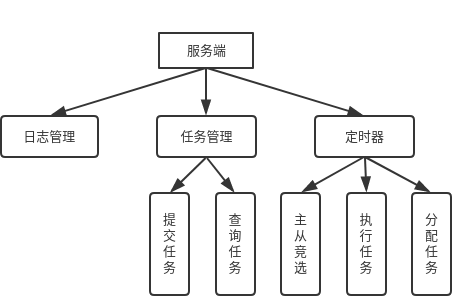
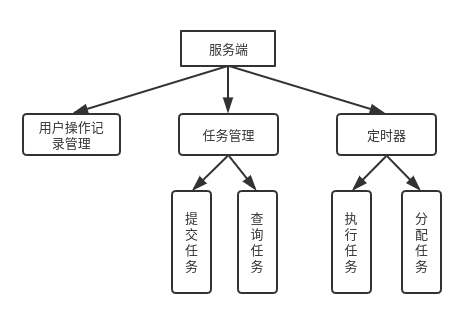
add services.json

Changed region(s): [[0.0, 0.0879, 1.0, 0.9674]]

diff --git a/chapters/intro.tex b/chapters/intro.tex
@@ -51,7 +51,7 @@
 
 (1) 对基于面诊养生应用在日常使用的场景下进行了定性研究，选用云中医作为技术探针设计并开展实验，探索了日常健康场景下面诊技术的特点以及待解决的问题，并提出了对应的日常场景下如何设计面诊应用的解决方案。
 
-(2) 为了支持后续的深入研究，设计并开发了一套支持后续面诊交互研究的实验平台。该实验平台提供了版本管理，日志管理，模型管理，问卷关联等功能，方便接入其他新的人脸模型，快速开展人机交互的实验，并降低了系统对用户设备类型和性能的要求。
+(2) 为了支持后续的深入研究，设计并开发了一套支持后续面诊交互研究的实验平台。该实验平台提供了版本管理，用户操作记录管理，模型管理，问卷关联等功能，方便接入其他新的人脸模型，快速开展人机交互的实验，并降低了系统对用户设备类型和性能的要求。
 
 (3) 在第二个工作点的基础上，利用实验平台，设计并实现了两个实验用的原型系统，分别对第一个工作点提出的设计原则进行了验证实验。结果表明，本文提出的提高可用性的设计方案的确能够提高系统使用的便利性，能够方便用户在日常场景下使用；而本文提出的增加系统透明性的设计原则，的确能够在目前系统算法结果不完美的情况下，提高用户对系统的信赖程度和对结果的接受程度。
 
@@ -65,7 +65,7 @@
 
 第三章，就本文的研究问题，采用技术探针的方法进行了定性研究，设计了调研问卷和深度访谈。通过对访谈数据的仔细分析，总结出了日常场景下面诊技术的特点，发现了其中存在的问题，并给出日常场景下面诊技术的设计方案。
 
-第四章，为了方便后续的研究工作，介绍了本文设计并实现的用于面诊交互实验的实验平台，该平台提供了日志管理，问卷关联，模型管理，任务管理等功能，并在客户端通过重新设计交互界面，解决了第三章提到的影响用户使用的交互可用性问题。
+第四章，为了方便后续的研究工作，介绍了本文设计并实现的用于面诊交互实验的实验平台，该平台提供了用户操作记录管理，问卷关联，模型管理，任务管理等功能，并在客户端通过重新设计交互界面，解决了第三章提到的影响用户使用的交互可用性问题。
 
 第五章，在实验平台的基础上，对定性研究提出的结论进行了两个验证实验，验证了第二章工作的有效性。
 

diff --git a/fduthesis.tex b/fduthesis.tex
@@ -6,6 +6,8 @@
 \usepackage{float}
 \usepackage[authoryear]{gbt7714}
 \usepackage{ctex}
+\usepackage{xcolor}
+\usepackage{listings}
 % \usepackage[AutoFakeBold=true, AutoFakeSlant=true]{xeCJK}
 
 % 引用
@@ -206,6 +208,21 @@
   }
 }
 
+\lstset{
+  numbers=left, %设置行号位置
+  numberstyle=\tiny, %设置行号大小
+  keywordstyle=\color{blue}, %设置关键字颜色
+  commentstyle=\color[cmyk]{1,0,1,0}, %设置注释颜色
+  frame=single, %设置边框格式
+  escapeinside=``, %逃逸字符(1左面的键)，用于显示中文
+  %breaklines, %自动折行
+  extendedchars=false, %解决代码跨页时，章节标题，页眉等汉字不显示的问题
+  xleftmargin=2em,xrightmargin=2em, aboveskip=1em, %设置边距
+  tabsize=4, %设置tab空格数
+  showspaces=false %不显示空格
+}
+
+
 \begin{document}
 
 % \raggedbottom
@@ -229,7 +246,7 @@
 
 % 2.任务分配与调度
 
-% 3.日志管理
+% 3.用户操作记录管理
 
 
 
@@ -243,7 +260,7 @@
 
 (1) 利用技术探针进行日常场景下面诊应用的定性研究，对参与者进行深度访谈，将转录后的录音进行文字编码提取，探索出了日常场景下面诊应用会遇到的问题并提出了设计方面的原则：增加可变性、系统透明性和日常可用性。
 
-(2) 设计并实现了可拓展的实验平台。在开展交互实验之前，为了提高后续实验的效率，同时解决用户设备多样性带来的稳定性的问题，设计并实现了用于快速开展面诊应用相关实验的实验平台：实现了系统高可用，快速迭代，模型任务模块分离，日志管理，问卷关联等功能，提高了系统的稳定性，能够应对后面大规模的用户实验场景，并且快速地开展新的实验。
+(2) 设计并实现了可拓展的实验平台。在开展交互实验之前，为了提高后续实验的效率，同时解决用户设备多样性带来的稳定性的问题，设计并实现了用于快速开展面诊应用相关实验的实验平台：实现了系统高可用，快速迭代，模型任务模块分离，用户操作记录管理，问卷关联等功能，提高了系统的稳定性，能够应对后面大规模的用户实验场景，并且快速地开展新的实验。
 
 % 通过调用实验平台接口对跨平台客户端进行实现并通过实验验证设计方案的有效性。模型运行在服务器，解决了用户设备的差异性带来的稳定性和性能的问题。
 

diff --git a/chapters/conclution.tex b/chapters/conclution.tex
@@ -4,7 +4,7 @@
 
 （1） 使用定性研究的方法，利用技术探针招募了志愿者参与实验。结合实验数据，分析出日常场景下面诊技术的特点以及可能存在的问题，并总结出了如何设计日常场景下的面诊应用。
 
-（2） 为了方便交互实验，设计并实现了支持面诊交互实验的实验平台，跨平台的实验屏蔽了用户不同设备类型可能会遇到的问题，统一的模型管理提高了模型的稳定性，方便新模型的接入和替换；任务管理对一次诊断任务进行了分解，提高多用户请求时的并发度；日志管理和问卷关联的功能，能够更加方便地设计新的问卷和采集用户信息，对用户细粒度的行为进行分析成为可能。
+（2） 为了方便交互实验，设计并实现了支持面诊交互实验的实验平台，跨平台的实验屏蔽了用户不同设备类型可能会遇到的问题，统一的模型管理提高了模型的稳定性，方便新模型的接入和替换；任务管理对一次诊断任务进行了分解，提高多用户请求时的并发度；用户操作记录管理和问卷关联的功能，能够更加方便地设计新的问卷和采集用户信息，对用户细粒度的行为进行分析成为可能。
 
 （3）基于定性研究的设计原则，我们在实验平台上分别实现了两个原型系统，对日常健康下的可用性和透明性的问题在实验平台上进行了实验，验证了实验平台的效果的同时探索了对应的设计方案。
 

diff --git a/chapters/experiment.tex b/chapters/experiment.tex
@@ -119,7 +119,7 @@ AngularJS \footnote{https://angularjs.org/} 目前是Google公司推出的JavaSc
 
 (2) 在招募到志愿者之后，我们通过实验平台的问卷关联功能，让每个用户填写一个志愿者的基本信息的问卷，然后单独给每位志愿者介绍我们这次实验的背景和这次实验的整个流程。
 
-(3) 让用户回家自由使用，我们可以通过实验平台的日志管理功能观察用户的使用日志，实验期间用户也可以随时反馈使用感受。
+(3) 让用户回家自由使用，我们可以通过实验平台的用户操作记录管理功能观察用户的使用日志，实验期间用户也可以随时反馈使用感受。
 
 (4)  在用户持续使用了大概两周之后，单独对每位用户进行深度访谈，通过录音的方式记录访谈数据。
 
